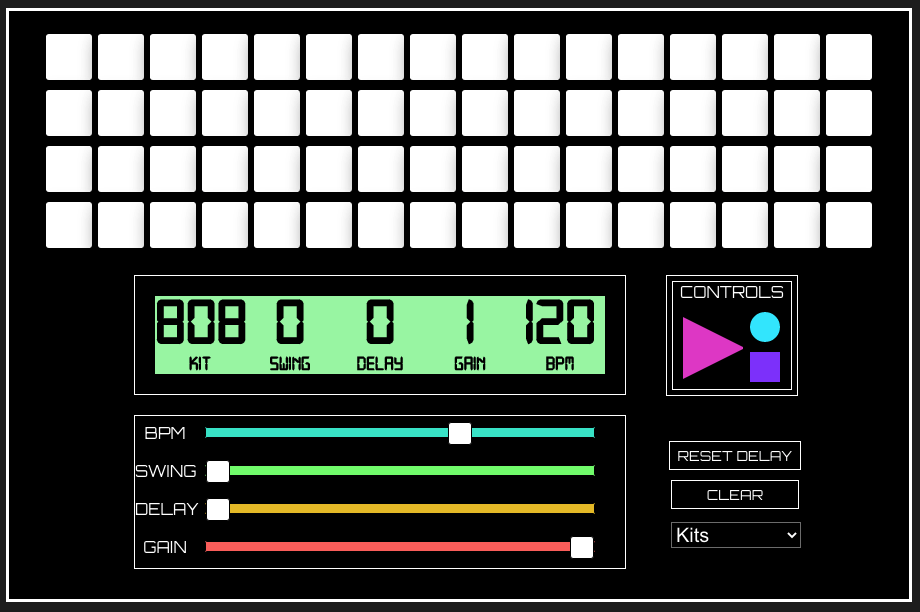
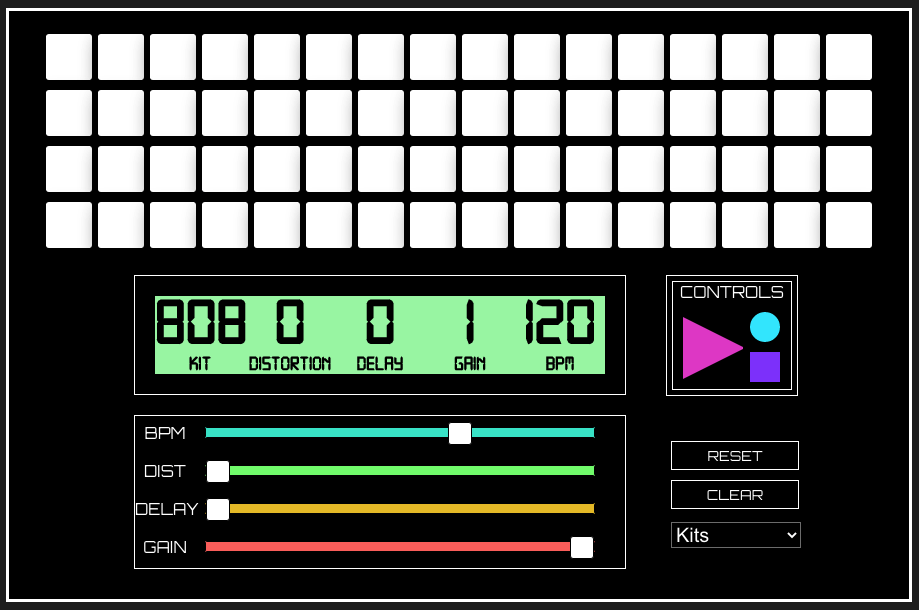
increases download link spacing. Replaces drum machine swing with distortion and updates image.

diff --git a/src/containers/drum_machine/DrumMachine.js b/src/containers/drum_machine/DrumMachine.js
@@ -16,7 +16,7 @@ export default function DrumMachine() {
   const [playing, setPlaying] = useState(false);
   const [eventID, setEventID] = useState(0);
   const [bpm, setBpm] = useState(120);
-  const [swing, setSwing] = useState(0.0);
+  const [distortion, setDistortion] = useState(0.0);
   const [gain, setGain] = useState(1.0);
   const [delay, setDelay] = useState(0.0);
   const [sampleChoices] = useState(['808']);
@@ -88,9 +88,11 @@ export default function DrumMachine() {
     Tone.Transport.bpm.value = bpm;
   }
 
-  function updateSwing(swing) {
-    setSwing(parseFloat(swing));
-    Tone.Transport.swing = swing;
+  function updateDistortion(distortion) {
+    sampler.disconnect();
+    setDistortion(parseFloat(distortion));
+    const dist = new Tone.Distortion(distortion).toMaster();
+    sampler.connect(dist);
   }
 
   function updateGain(gain) {
@@ -109,10 +111,11 @@ export default function DrumMachine() {
     sampler.connect(pingPong);
   }
 
-  function resetDelay() {
+  function resetEffects() {
     sampler.disconnect();
     sampler.toMaster();
     setDelay(0);
+    setDistortion(0);
   }
 
   function recordStart() {
@@ -138,7 +141,7 @@ export default function DrumMachine() {
         link.style.cssText = "font-size: 20px; color: white;"
         link.href = audioURL;
         link.download = 'my_recording';
-        link.innerHTML = 'DOWNLOAD FILE';
+        link.innerHTML = '&nbsp; DOWNLOAD &nbsp;';
         document.body.appendChild(link);
       };
     }
@@ -223,7 +226,7 @@ export default function DrumMachine() {
           <div className="drum-machine-values-border">
             <div className="drum-machine-values-container">
               <h3 className="drum-machine-values">{kit} <p className="drum-machine-units">Kit</p></h3>
-              <h3 className="drum-machine-values">{swing} <p className="drum-machine-units">Swing</p></h3>
+              <h3 className="drum-machine-values">{distortion} <p className="drum-machine-units">Distortion</p></h3>
               <h3 className="drum-machine-values">{delay} <p className="drum-machine-units">Delay</p></h3>
               <h3 className="drum-machine-values">{gain} <p className="drum-machine-units">Gain</p></h3>
               <h3 className="drum-machine-values">{bpm} <p className="drum-machine-units">BPM</p></h3>
@@ -253,10 +256,10 @@ export default function DrumMachine() {
                 <Slider styleName={"bpm-slider"} min={1} max={180} step={1} value={bpm} update={updateBPM} />
               </div>
               <div className="drum-machine-slider-value">
-                <p>SWING</p>
+                <p>DIST</p>
               </div>
               <div className="drum-machine-slider-container">
-                <Slider styleName={"swing-slider"} min={0.0} max={1.0} step={0.1} value={swing} update={updateSwing} />
+                <Slider styleName={"swing-slider"} min={0.0} max={1.0} step={0.1} value={distortion} update={updateDistortion} />
               </div>
               <div className="drum-machine-slider-value">
                 <p>DELAY</p>
@@ -273,7 +276,7 @@ export default function DrumMachine() {
             </div>
           <div>
             <div className="drum-machine-reset-but-container">
-              <button className="drum-machine-destroy-buttons drum-machine-reset-buttons" onClick={resetDelay}>RESET DELAY</button>
+              <button className="drum-machine-destroy-buttons drum-machine-reset-buttons" onClick={resetEffects}>RESET</button>
             </div>
             <div className="drum-machine-clear-but-container">
               <button className="drum-machine-destroy-buttons drum-machine-clear-button" onClick={clearDrumMachine}>CLEAR</button>

diff --git a/src/containers/step_sequencer/StepSequencer.js b/src/containers/step_sequencer/StepSequencer.js
@@ -186,7 +186,7 @@ export default function StepSequencer() {
         link.style.cssText = "font-size: 20px; color: white;"
         link.href = audioURL;
         link.download = 'my_recording';
-        link.innerHTML = 'DOWNLOAD FILE';
+        link.innerHTML = '&nbsp; DOWNLOAD &nbsp;';
         document.body.appendChild(link);
       };
     }

diff --git a/src/containers/arpeggiator/Arpeggiator.js b/src/containers/arpeggiator/Arpeggiator.js
@@ -139,7 +139,7 @@ export default function Arpeggiator() {
         link.style.cssText = "font-size: 20px; color: white;"
         link.href = audioURL;
         link.download = 'my_recording';
-        link.innerHTML = 'DOWNLOAD FILE';
+        link.innerHTML = '&nbsp; DOWNLOAD &nbsp;';
         document.body.appendChild(link);
       };
     }

diff --git a/src/containers/drum_machine/DrumMachine.css b/src/containers/drum_machine/DrumMachine.css
@@ -197,8 +197,8 @@ button {
 
 .drum-machine-reset-buttons {
   margin-top: 30px;
-  padding-left: 7px;
-  padding-right: 7px;
+  padding-left: 35px;
+  padding-right: 35px;
 }
 
 .drum-machine-clear-button {
